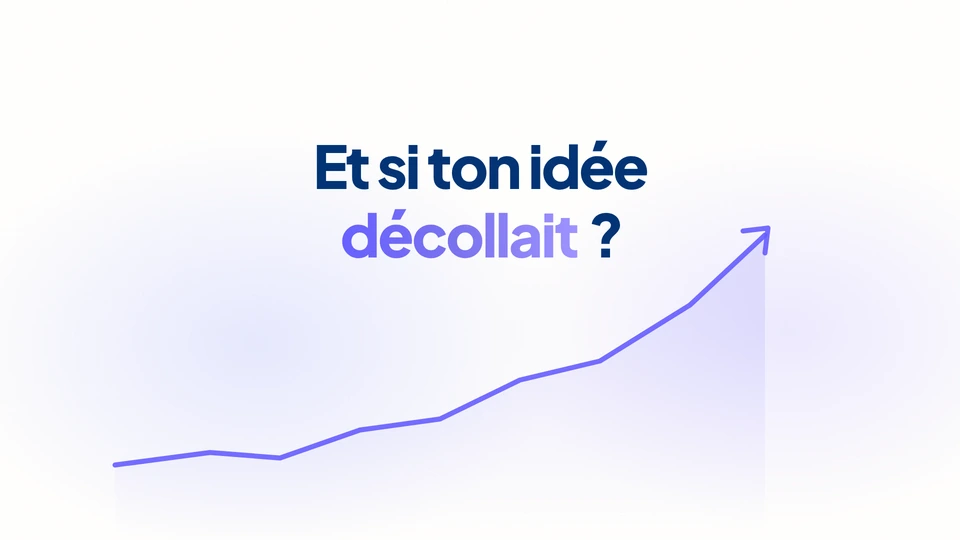
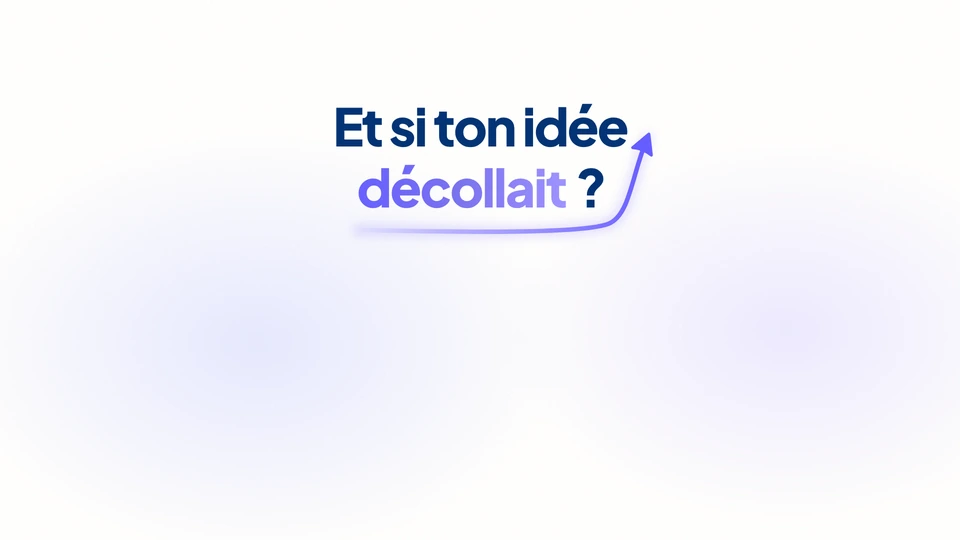
Affiche de la vidéo : le message en haut, centré, avec un trait qui décolle sous « décollait »
Sur ordinateur, on ne voit que le haut de la vidéo à l'arrivée, et en descendant on la lance : tout
le message tient donc dans le haut de l'image, centré. Le trait souligne « décollait » puis part en
flèche vers le haut à droite (choix de Noé parmi quatre). Sur un ordinateur bas (820 px de haut ou
moins), un peu moins d'air dans le hero pour que ce message se voie dès l'arrivée.

Claude-Session: https://claude.ai/code/session_01P65FVpXqpWWQ7RQy5iUe2y

diff --git a/src/index.css b/src/index.css
@@ -157,6 +157,17 @@ section[id] {
   .btn-reflet::after { display: none; }
 }
 
+/* ===== HERO SUR UN ÉCRAN D'ORDINATEUR BAS ===== */
+/* Portables 1366×768, 1280×720 : un peu moins d'air au-dessus du titre et entre les éléments, pour que le
+   message de l'affiche de la vidéo se voie dès l'arrivée. Sur ces écrans, on ne voit que le haut de la
+   vidéo ; en descendant pour voir le reste, on la lance, et l'affiche disparaît. */
+@media (min-width: 1024px) and (max-height: 820px) {
+  .hero-bg { padding-top: 8.5rem; }
+  .hero-bg .hero-content > h1 { margin-bottom: 1.25rem; }
+  .hero-bg .hero-content > p { margin-bottom: 2rem; }
+  .hero-bg .hv-zone { margin-top: 2.5rem; }
+}
+
 /* ===== HERO BACKGROUND ===== */
 /* Lueur violette en arc de cercle : un grand cercle blanc centré en haut (derrière la barre, le titre et le
    bouton), le violet tout autour. Il monte haut sur les côtés, descend doucement vers le milieu, remonte de

diff --git a/documentation/architecture/landing-page.md b/documentation/architecture/landing-page.md
@@ -102,7 +102,9 @@ Inspiré de celui d'Ikovaline (ikovaline.com) : le titre, une phrase, un bouton,
 - Espacement (demande de Noé du 10/10/2026 : plus d'air au-dessus du titre, la vidéo plus bas) : sur
   ordinateur, 88 px entre la barre du haut et le titre, puis 28 px jusqu'à la phrase, 40 px jusqu'au
   bouton et 60 px jusqu'à la vidéo (titre à 176 px du haut, vidéo à 524 px). Sur téléphone : 20, 32 et
-  40 px. Le hero reste centré en hauteur quand l'écran est plus haut que son contenu.
+  40 px. Le hero reste centré en hauteur quand l'écran est plus haut que son contenu. Sur un ordinateur
+  bas (hauteur 820 px ou moins : portables 1366×768, 1280×720), l'air est réduit (48, 20, 32, 40 px) pour
+  que le message de l'affiche de la vidéo se voie dès l'arrivée (`src/index.css`).
 - Fond (`.hero-bg` dans `src/index.css`) : une lueur violette en arc de cercle. Un grand cercle blanc
   centré en haut (blanc jusqu'à 34 % du rayon, fondu jusqu'à 70 %) laisse le violet monter haut sur les
   côtés, descendre doucement vers le milieu et remonter de l'autre côté ; il entoure la vidéo. Même
@@ -122,11 +124,13 @@ Le lecteur reprend celui d'Ikovaline (ikovaline.com), à la demande de Noé :
 
 - Tant que la vidéo n'a rien montré, une affiche est posée dessus, comme chez Ikovaline (une image du
   film, peu d'éléments) : le fond blanc du film, « Et si ton idée décollait ? » (« décollait » dans le
-  dégradé violet, comme « décoller » dans le film) et la courbe « Revenus » du film qui monte jusqu'à une
-  flèche. Noé a choisi le blanc parmi quatre propositions (violet ou blanc, « En 2026, un vrai pari. »
-  avec les dés, ou cette phrase), a demandé un peu d'espace entre les deux lignes et une flèche qui
-  monte ; la phrase a été retenue parce qu'elle donne envie (positive) et que le film démarre sur ce
-  même blanc. Refusés avant : l'image « 8 apps sur 10 » (« ça donne pas envie
+  dégradé violet, comme « décoller » dans le film) et un trait qui souligne « décollait » puis décolle en
+  flèche vers le haut à droite. Tout tient dans le haut de l'image, centré : sur ordinateur, on ne voit
+  que le haut de la vidéo à l'arrivée, et en descendant pour voir le reste on la lance (« mets-toi à la
+  place de l'utilisateur », Noé). Noé a choisi le blanc parmi quatre propositions (violet ou blanc,
+  « En 2026, un vrai pari. » avec les dés, ou cette phrase), puis cette flèche parmi quatre autres
+  (courbe, avion en papier, texte seul, pastille) ; refusée avant : une courbe de graphique en bas à
+  gauche avec un aplat (« pas belle »). Refusés avant : l'image « 8 apps sur 10 » (« ça donne pas envie
   de regarder »), une couverture avec sa photo et « Regarde la vidéo » (« pas ma tête »), le titre du hero
   répété. Source de l'image : `affiche.html` (variante F) dans le dossier de rendu du film.
 - Le film se charge en fond 0,7 s après l'affichage, mais ne démarre que quand on fait défiler la page
